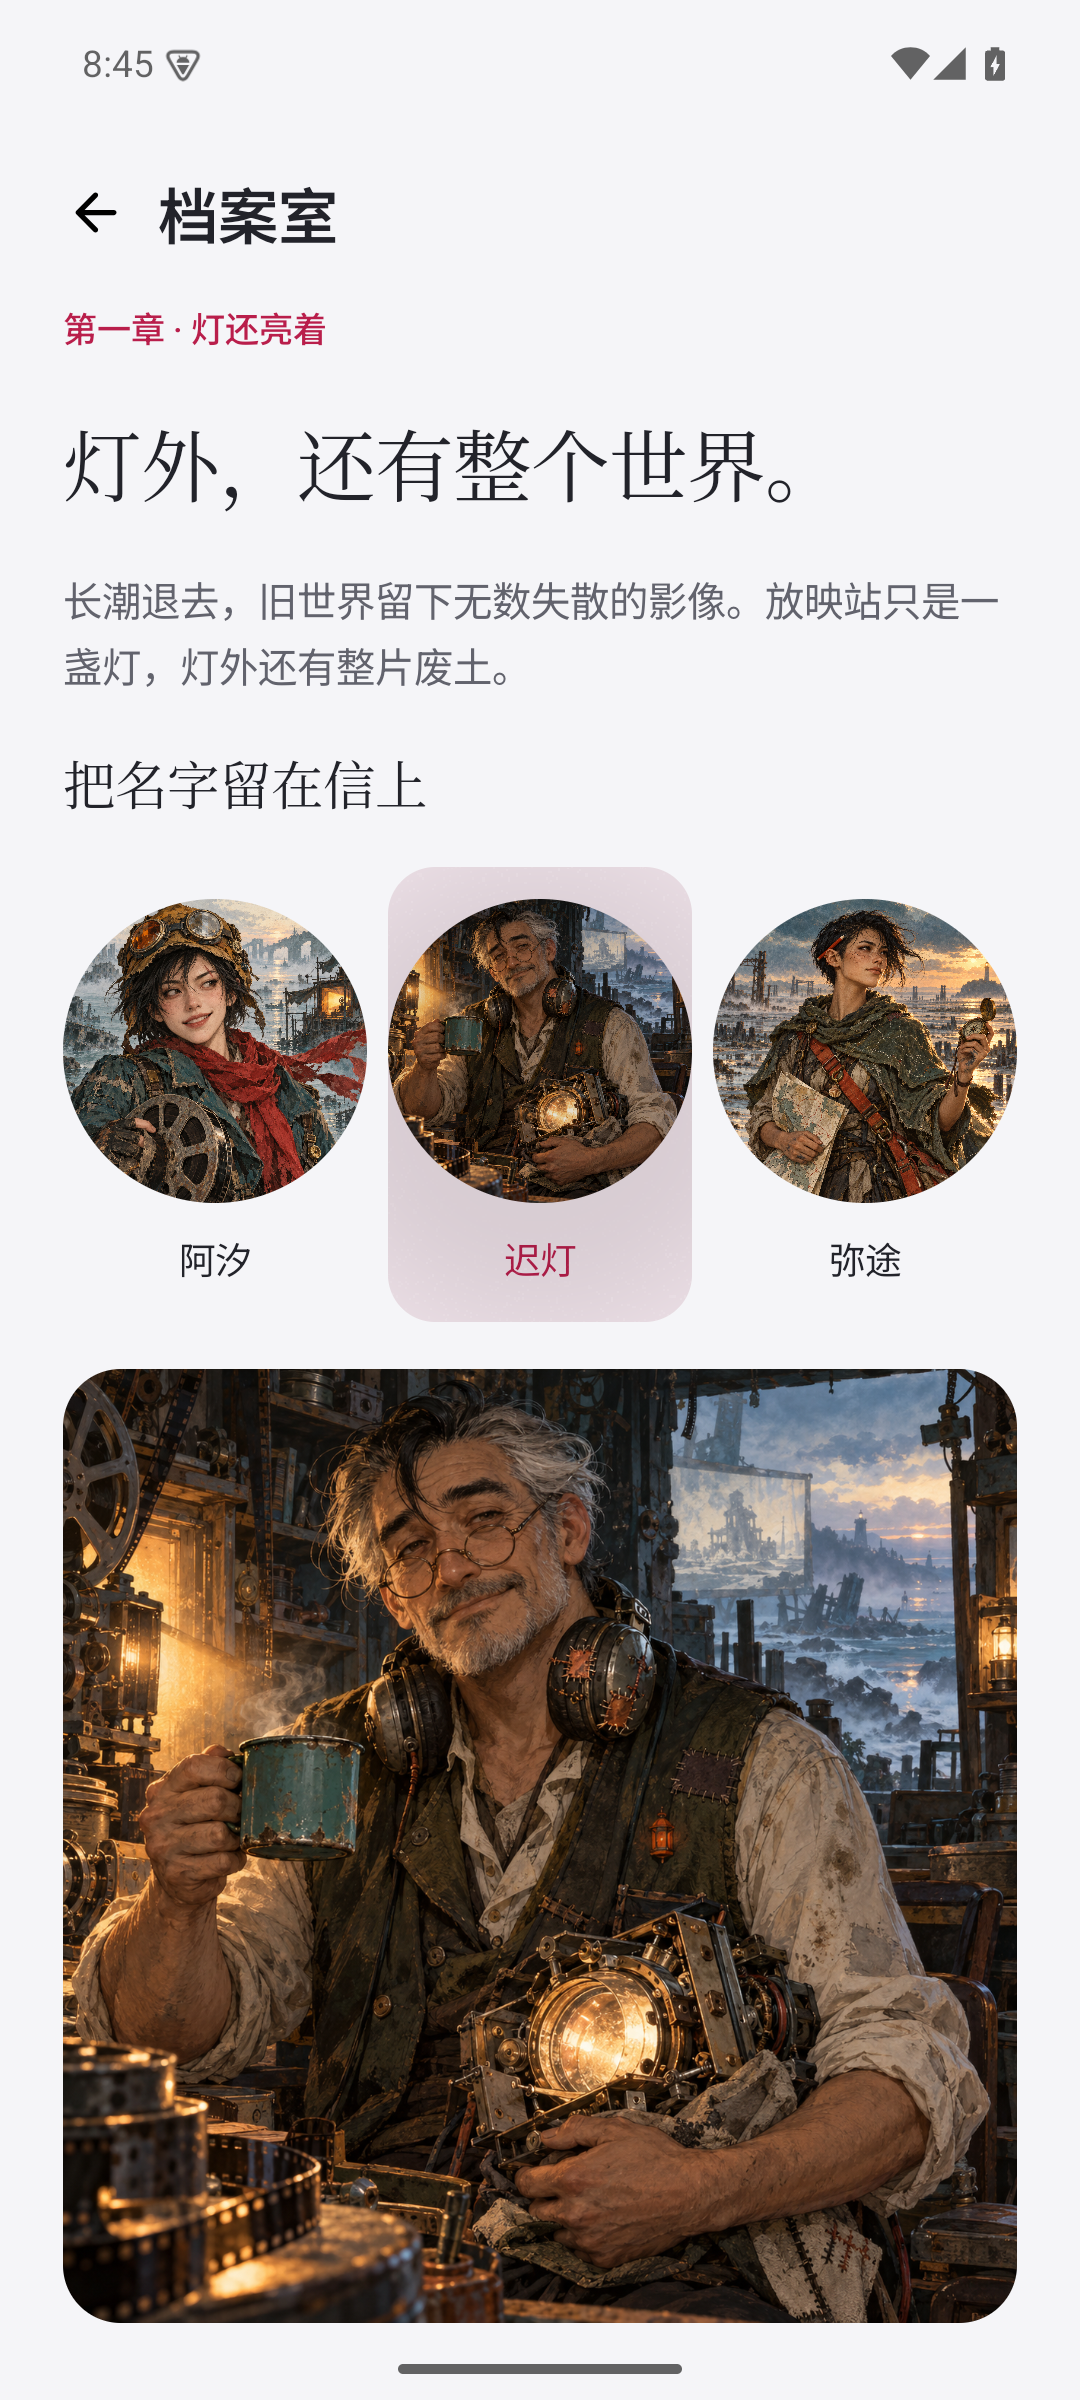
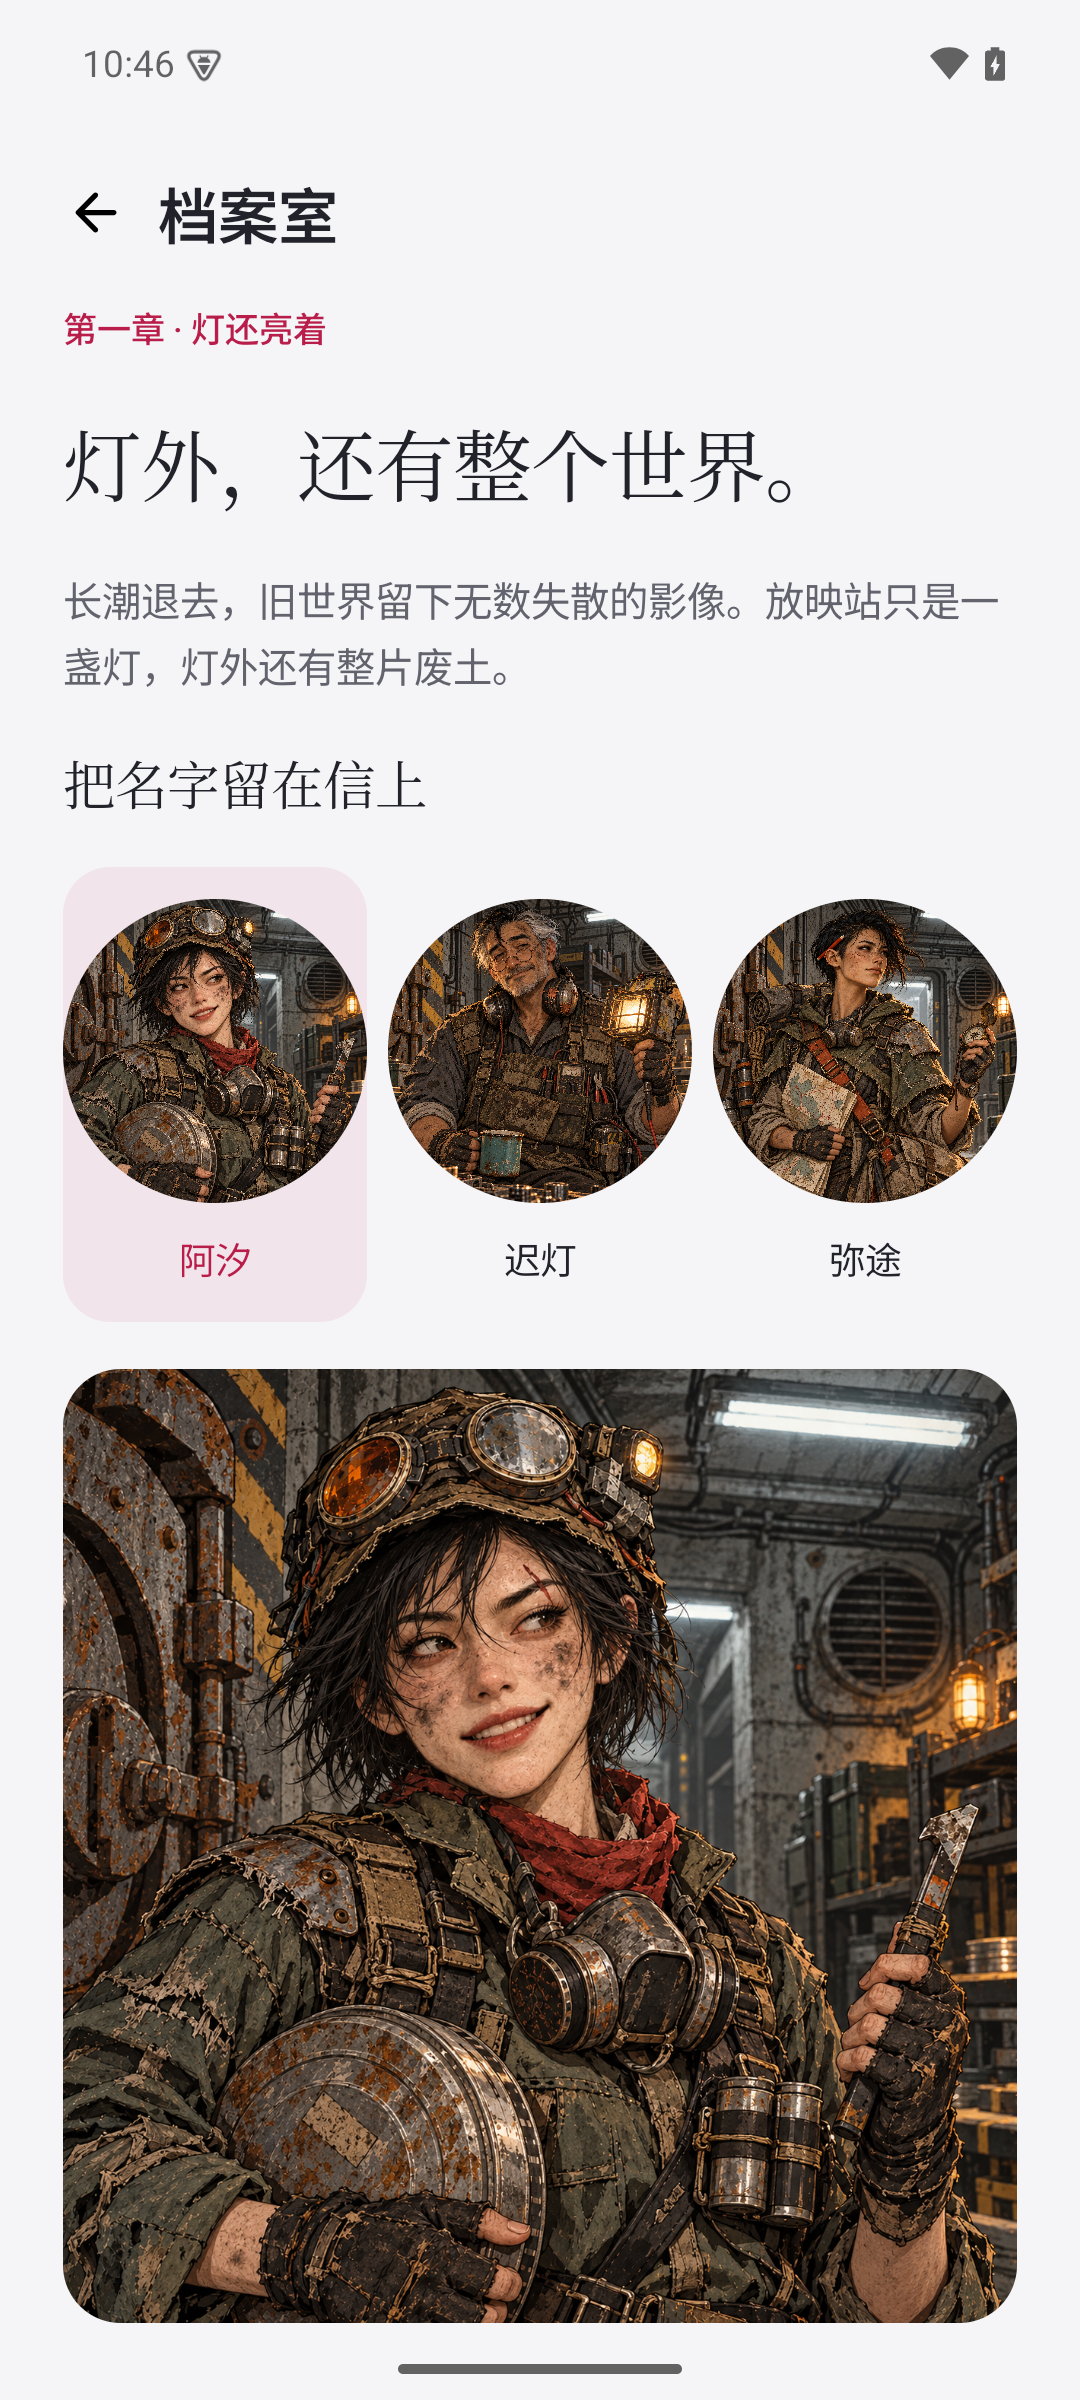
Repaint the cast as shelter scavengers for alpha.23

diff --git a/releases/v0.2.0-alpha.23.md b/releases/v0.2.0-alpha.23.md
@@ -1,0 +1,27 @@
+# 映汐放映室 0.2.0-alpha.23 / Yingxi 0.2.0-alpha.23
+
+## 中文
+
+【拾荒者信笺 · 映汐放映室 0.2.0-alpha.23】
+
+阿汐把三张肖像重新挂回档案室。灯下多了几道补丁，迟灯的表笔还没收好，弥途的背架也没卸。画纸终于记下了他们平日靠什么赶路、修灯和把片盒带回来。
+
+【本次修缮】
+1. 重绘阿汐、迟灯、弥途的肖像，统一为废土避难所拾荒者风格：灰绿工装、拼装护具、回收工具与地下设施。
+2. 保留三人的面部与职业标记，补齐阿汐的搜集拆解装备、迟灯的维修工作灯，以及弥途的外勤背架与寻路用品。
+3. 同步人物档案中的衣着与装备描述，首页入口、圆形头像和档案室大图共用新肖像。
+
+> 灯亮着，就还有人知道往哪儿走。——迟灯
+
+## English
+
+[Scavenger's letter · Yingxi Screening Room 0.2.0-alpha.23]
+
+Axi hung three repainted portraits in the archives. New patches caught the light; Chideng had not put away his meter probes, and Mitu still wore her pack frame. The paper finally recorded the things they use to follow roads, repair lights and bring film boxes home.
+
+[Repairs]
+1. Repaint Axi, Chideng and Mitu as wasteland shelter scavengers, with grey-green workwear, improvised protection, salvaged tools and underground facilities.
+2. Preserve their faces and signature details while clarifying each role: Axi's salvage equipment, Chideng's repair kit and rebuilt work light, and Mitu's expedition pack and navigation supplies.
+3. Match the character records to the new clothing and equipment. The home entrance, circular avatars and large archive portraits share the updated artwork.
+
+> While the light is on, someone still knows the way. — Chideng

diff --git a/docs/worldbook.md b/docs/worldbook.md
@@ -61,3 +61,13 @@ graph TD
 ## 门牌与档案入口（alpha.21）
 
 应用名称为「映汐放映室」；故事中的放映站仍是一处有来信与归人的地点。人物识别以随包原创肖像和 JSON 描述为准，保留护目镜、修补耳机和红铅笔三种独有标记。首页档案入口与版本页通向同一份档案，不另建一套人物设定。
+
+## 废土避难所肖像（alpha.23）
+
+人物造型采用地下避难所拾荒者的实用逻辑：回收布料拼接的灰绿工装、修补护具、呼吸防护、旧工具和搬运装备。背景是混凝土、重型隔离门、通风与供电设施；冷色顶灯与少量工作灯共同照明。材质磨损应对应使用痕迹，装备应能说明人物靠什么工作和生存。
+
+- 阿汐保留异色护目镜，增加拼装头灯、撬拆工具和胶片罐，突出影像搜集与拆解。
+- 迟灯保留灰白鬓角与修补耳机，使用维修围裙、表笔、钳子和带护网的拼装工作灯，突出供电与放映设备维护。
+- 弥途保留红铅笔、橙色肩带、地图和罗盘，以短雨披、回收背架、绳索与水壶表现外勤寻路和携行。
+
+三张图由内置 imagegen 结合旧肖像重绘，保持面部身份、职业与已有世界关系；不新增未经信笺铺垫的地点或势力。发布时同时检查首页小头像、档案室圆形头像与大幅肖像的辨识度。
